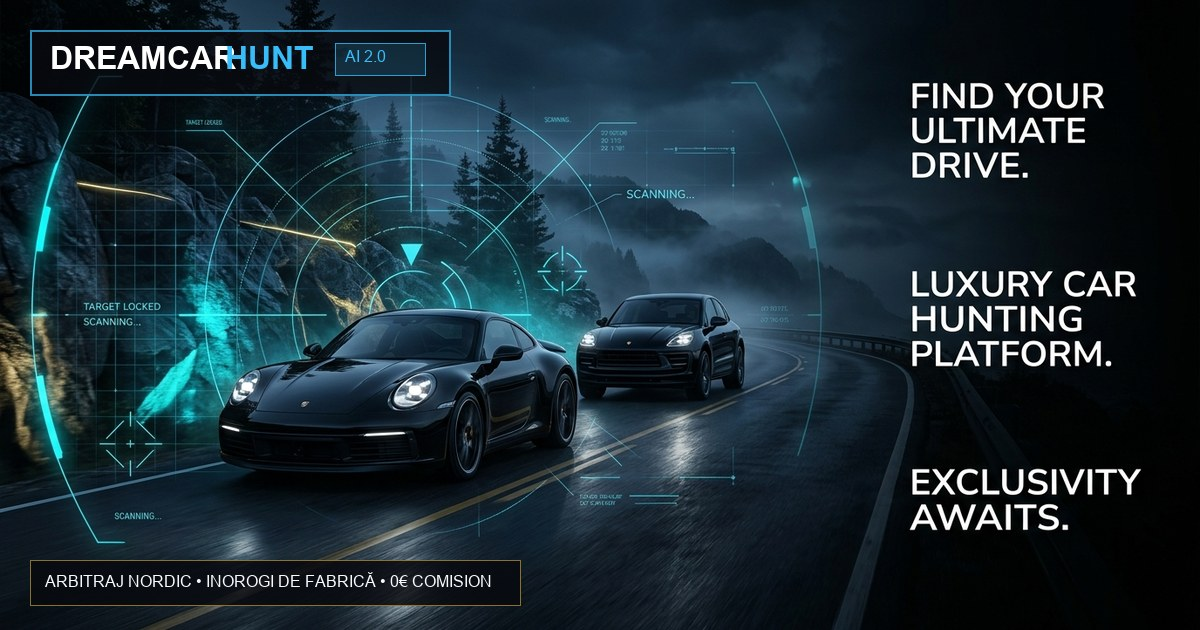
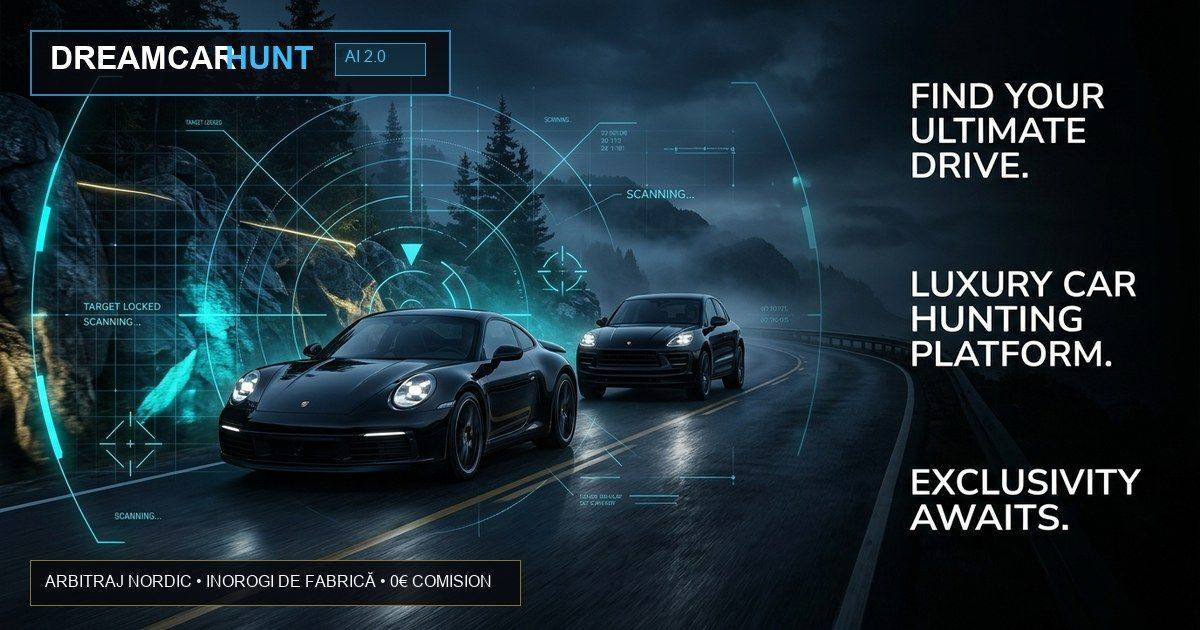
Optimize og-image size and add itemprop image and link tags for WhatsApp

Changed region(s): [[0.185, 0.0603, 0.2775, 0.1206]]

diff --git a/index.html b/index.html
@@ -21,6 +21,8 @@
     <meta property="og:image:type" content="image/jpeg">
     <meta property="og:image:width" content="1200">
     <meta property="og:image:height" content="630">
+        <meta itemprop="image" content="https://dreamcarhunt.com/og-image.jpg">
+    <link rel="image_src" href="https://dreamcarhunt.com/og-image.jpg">
     <meta property="og:image:alt" content="DreamCarHunt — European AI Car Hunting Engine">
 
     <!-- Twitter / X Card -->

diff --git a/it/index.html b/it/index.html
@@ -21,6 +21,8 @@
     <meta property="og:image:type" content="image/jpeg">
     <meta property="og:image:width" content="1200">
     <meta property="og:image:height" content="630">
+        <meta itemprop="image" content="https://dreamcarhunt.com/og-image.jpg">
+    <link rel="image_src" href="https://dreamcarhunt.com/og-image.jpg">
     <meta property="og:image:alt" content="DreamCarHunt — European AI Car Hunting Engine">
 
     <!-- Twitter / X Card -->

diff --git a/ro/index.html b/ro/index.html
@@ -21,6 +21,8 @@
     <meta property="og:image:type" content="image/jpeg">
     <meta property="og:image:width" content="1200">
     <meta property="og:image:height" content="630">
+        <meta itemprop="image" content="https://dreamcarhunt.com/og-image.jpg">
+    <link rel="image_src" href="https://dreamcarhunt.com/og-image.jpg">
     <meta property="og:image:alt" content="DreamCarHunt — European AI Car Hunting Engine">
 
     <!-- Twitter / X Card -->
